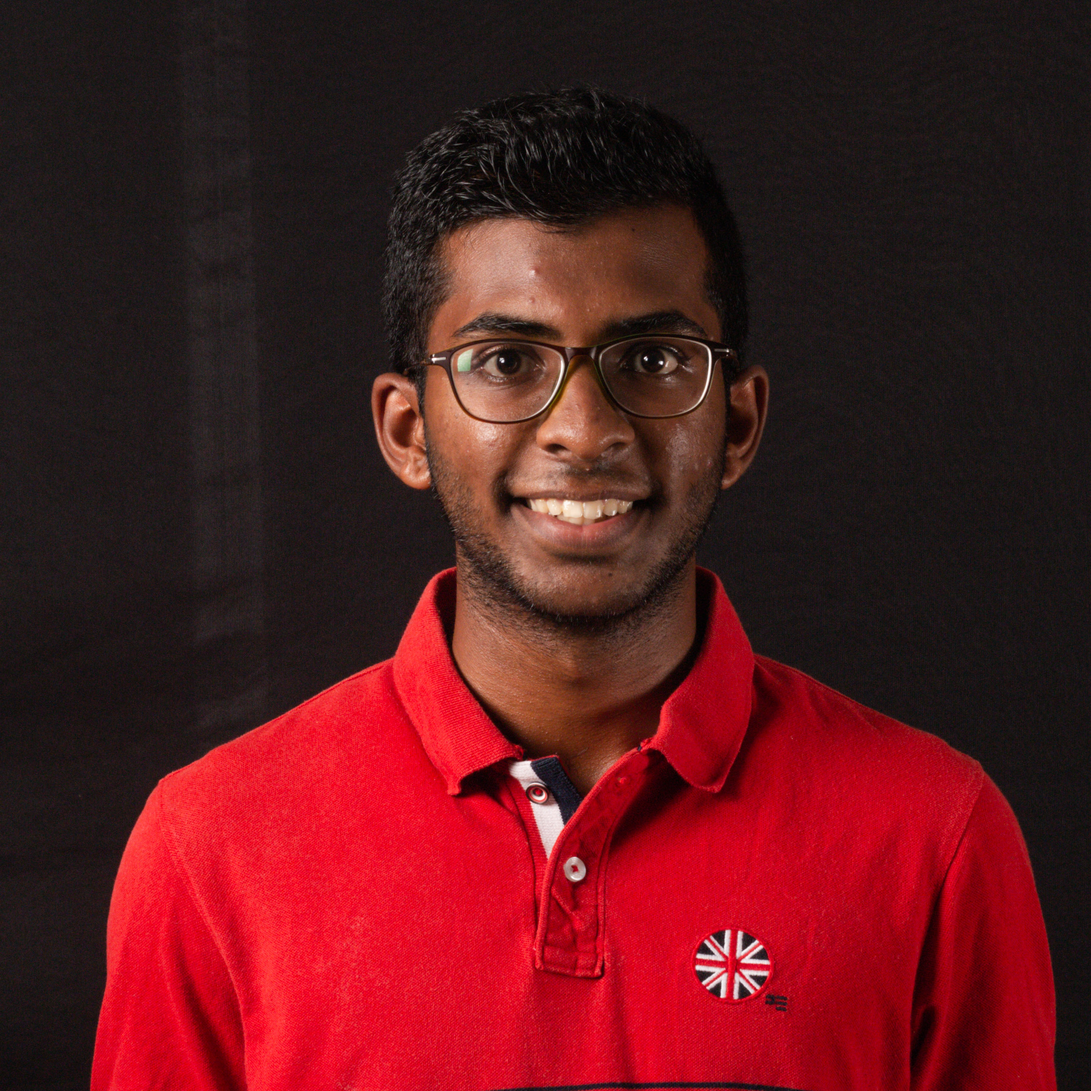
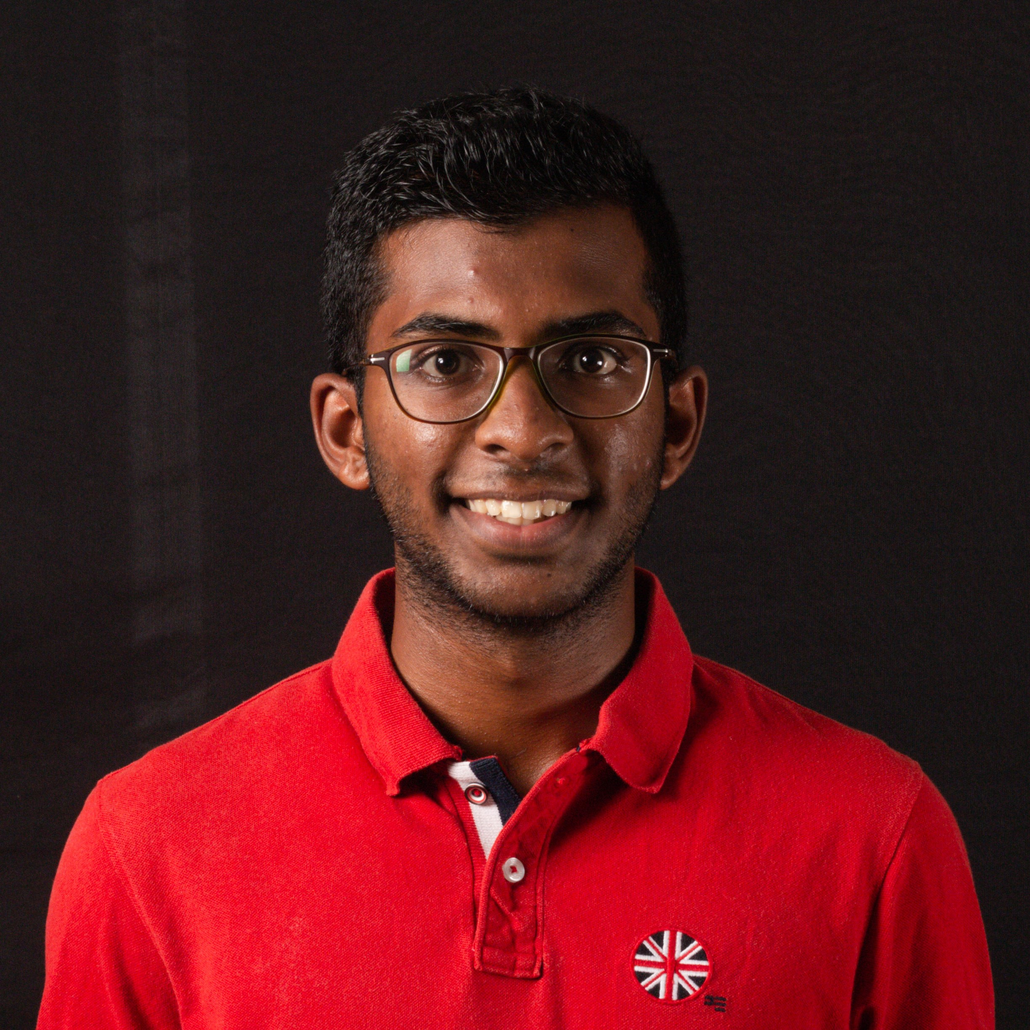
Added projects photos on home page

Changed region(s): [[0.0311, 0.0932, 0.9939, 1.0], [0.9628, 0.9943, 0.9939, 1.0]]

diff --git a/index.html b/index.html
@@ -113,7 +113,7 @@
 
 			<!-- Two -->
 				<section id="two" class="spotlight style2 right">
-					<span class="image fit main"><img src="images/pic03.jpg" alt="" /></span>
+					<span class="image fit main"><img src="images/retrieve/img0.jpeg" alt="" /></span>
 					<div class="content">
 						<header>
 							<h2>Retrieve and Recover</h2>
@@ -129,7 +129,7 @@
 
 			<!-- Three -->
 				<section id="three" class="spotlight style3 left">
-					<span class="image fit main bottom"><img src="images/pic04.jpg" alt="" /></span>
+					<span class="image fit main bottom"><img src="images/passport-mela/16665309_1273486072729466_1782613182927258857_o.jpg" alt="" /></span>
 					<div class="content">
 						<header>
 							<h2>Passport Mela</h2>
@@ -146,7 +146,7 @@
 
 			<!-- Four -->
 			<section id="four" class="spotlight style2 right">
-				<span class="image fit main"><img src="images/pic03.jpg" alt="" /></span>
+				<span class="image fit main"><img src="images/soapbox/img1.jpg" alt="" /></span>
 				<div class="content">
 					<header>
 						<h2>Soap Box</h2>
@@ -164,7 +164,7 @@
 
 			<!-- Five -->
 			<section id="five" class="spotlight style3 left">
-				<span class="image fit main bottom"><img src="images/pic04.jpg" alt="" /></span>
+				<span class="image fit main bottom"><img src="images/recycle/IMG_3059.jpg" alt="" /></span>
 				<div class="content">
 					<header>
 						<h2>RECycle</h2>
@@ -414,7 +414,7 @@
 						<!-- <li><a href="mailto:taskforce@nitt.edu" class="icon solid fa-envelope"><span class="label">Email</span></a></li> -->
 					</ul>
 					<ul class="copyright">
-						<li>&copy; Taskforce. All rights reserved.</li><li>Design: <a href="http://html5up.net">HTML5 UP</a></li>
+						<li>&copy; Taskforce 2021. All rights reserved.</li><li>Design: <a href="http://html5up.net">HTML5 UP</a></li>
 					</ul>
 					<div class="copyright">
 						Made with <i class="fa fa-heart" style="font-size:12px;color:red"></i> by Taskforce Web Team
